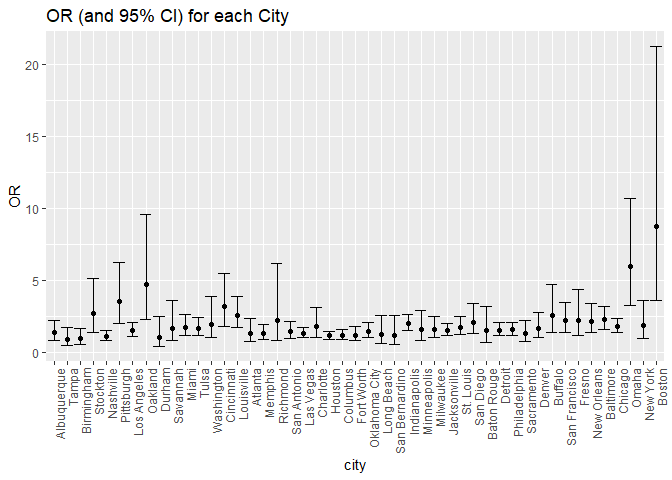
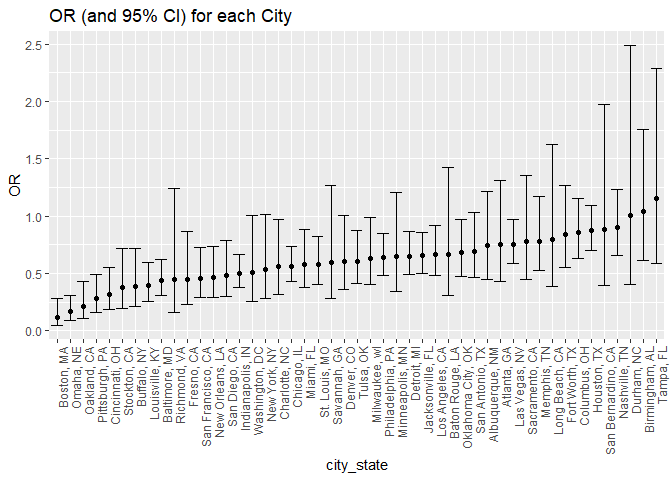
final

diff --git a/p8105_hw6_mp3653.md b/p8105_hw6_mp3653.md
@@ -20,6 +20,10 @@ library(tidyverse)
     ## x dplyr::filter() masks stats::filter()
     ## x dplyr::lag()    masks stats::lag()
 
+``` r
+library(modelr)
+```
+
 Problem 1
 =========
 
@@ -30,10 +34,10 @@ homicide_data = read_csv('https://raw.githubusercontent.com/washingtonpost/data-
   janitor::clean_names() %>% 
   unite(city_state, c(city, state), sep = ", ", remove = FALSE) %>% 
   filter(!(city_state %in% c('Dallas, TX', 'Phoenix, AZ', 'Kansas City, MO', 'Tulsa, AL'))) %>% 
-  mutate(outcome = as.factor(ifelse(disposition == 'Closed by arrest', 'solved', 'unsolved')),
+  mutate(outcome = as.factor(ifelse(disposition == 'Closed by arrest', 1, 0)),
          victim_age = as.numeric(victim_age),
          victim_race = ifelse(victim_race == 'White', 'white', 'non-white'),
-         victim_race = fct_relevel(victim_race, 'white'),
+         victim_race = fct_relevel(victim_race, 'white', 'non-white'),
          victim_sex = as.factor(victim_sex))
 ```
 
@@ -56,9 +60,9 @@ homicide_data = read_csv('https://raw.githubusercontent.com/washingtonpost/data-
     ## Warning in evalq(as.numeric(victim_age), <environment>): NAs introduced by
     ## coercion
 
-### Logistic Regression
+### Regression
 
-Baltimore
+Logistic Regression and OR (and 95% CI) for Baltimore, MD
 
 ``` r
 baltimore = homicide_data %>% 
@@ -66,6 +70,7 @@ baltimore = homicide_data %>%
 
 baltimore_lr = glm(outcome ~ victim_age + victim_sex + victim_race, data = baltimore, family = binomial())
 
+#OR and 95% CI
 baltimore_lr %>% broom::tidy() %>% 
   janitor::clean_names() %>% 
   mutate(OR = exp(estimate),
@@ -78,13 +83,13 @@ baltimore_lr %>% broom::tidy() %>%
 
 |        OR|  lower\_bound|  upper\_bound|
 |---------:|-------------:|-------------:|
-|  2.269591|      1.611803|      3.195828|
+|  0.440608|     0.3129079|     0.6204234|
 
-All cities
+Logistic Regression and OR (and 95% CI) for all cities
 
 ``` r
 city_lr = homicide_data %>% 
-  group_by(city) %>% 
+  group_by(city_state) %>% 
   nest() %>% 
   mutate(models = map(data, ~ glm(outcome ~ victim_age + victim_sex + victim_race, data = .x, family = binomial())),
          models = map(models, broom::tidy)) %>% 
@@ -95,70 +100,70 @@ city_lr = homicide_data %>%
          lower_bound = exp(estimate - (1.96 * std_error)),
          upper_bound = exp(estimate + (1.96 * std_error)))
 
+#OR and 95% CI
 city_lr %>% 
   filter(term == 'victim_racenon-white') %>% 
-  select(city, OR, lower_bound, upper_bound) %>% 
+  select(city_state, OR, lower_bound, upper_bound) %>% 
   knitr::kable()
 ```
 
-| city           |         OR|  lower\_bound|  upper\_bound|
-|:---------------|----------:|-------------:|-------------:|
-| Albuquerque    |  1.3486725|     0.8208534|      2.215886|
-| Atlanta        |  1.3283705|     0.7614223|      2.317463|
-| Baltimore      |  2.2695913|     1.6118026|      3.195828|
-| Baton Rouge    |  1.4978381|     0.7016468|      3.197505|
-| Birmingham     |  0.9622062|     0.5694368|      1.625889|
-| Boston         |  8.7295729|     3.5933240|     21.207507|
-| Buffalo        |  2.5648401|     1.3995730|      4.700294|
-| Charlotte      |  1.7937165|     1.0321202|      3.117291|
-| Chicago        |  1.7790921|     1.3646059|      2.319475|
-| Cincinnati     |  3.1411372|     1.8154766|      5.434795|
-| Columbus       |  1.1699973|     0.8678604|      1.577320|
-| Denver         |  1.6614415|     0.9909206|      2.785680|
-| Detroit        |  1.5355189|     1.1500925|      2.050112|
-| Durham         |  0.9971904|     0.4018409|      2.474583|
-| Fort Worth     |  1.1935516|     0.7899324|      1.803402|
-| Fresno         |  2.2331323|     1.1500046|      4.336400|
-| Houston        |  1.1459943|     0.9175847|      1.431261|
-| Indianapolis   |  1.9819404|     1.4997206|      2.619213|
-| Jacksonville   |  1.5193525|     1.1595709|      1.990764|
-| Las Vegas      |  1.3237742|     1.0276480|      1.705232|
-| Long Beach     |  1.2595996|     0.6150494|      2.579616|
-| Los Angeles    |  1.5018570|     1.0890949|      2.071054|
-| Louisville     |  2.5515829|     1.6861150|      3.861288|
-| Memphis        |  1.2782507|     0.8558811|      1.909056|
-| Miami          |  1.7353971|     1.1361086|      2.650806|
-| Milwaukee      |  1.5813046|     1.0086895|      2.478983|
-| Minneapolis    |  1.5486999|     0.8268367|      2.900780|
-| Nashville      |  1.1128530|     0.8091645|      1.530519|
-| New Orleans    |  2.1462281|     1.3575696|      3.393045|
-| New York       |  1.8816121|     0.9890540|      3.579647|
-| Oakland        |  4.6953226|     2.3007328|      9.582188|
-| Oklahoma City  |  1.4678827|     1.0299891|      2.091944|
-| Omaha          |  5.9198635|     3.2771498|     10.693678|
-| Philadelphia   |  1.5532139|     1.1730629|      2.056559|
-| Pittsburgh     |  3.5516327|     2.0276622|      6.221004|
-| Richmond       |  2.2350635|     0.8076558|      6.185195|
-| San Antonio    |  1.4506428|     0.9707853|      2.167693|
-| Sacramento     |  1.2808420|     0.7360034|      2.229006|
-| Savannah       |  1.6767144|     0.7872725|      3.571027|
-| San Bernardino |  1.1361755|     0.5071037|      2.545623|
-| San Diego      |  2.0688687|     1.2739115|      3.359902|
-| San Francisco  |  2.1820665|     1.3829544|      3.442929|
-| St. Louis      |  1.7329588|     1.2190769|      2.463459|
-| Stockton       |  2.6615561|     1.3914473|      5.091016|
-| Tampa          |  0.8629422|     0.4371502|      1.703463|
-| Tulsa          |  1.6598372|     1.1380960|      2.420762|
-| Washington     |  1.9604709|     0.9904717|      3.880420|
+| city\_state        |         OR|  lower\_bound|  upper\_bound|
+|:-------------------|----------:|-------------:|-------------:|
+| Albuquerque, NM    |  0.7414698|     0.4512868|     1.2182443|
+| Atlanta, GA        |  0.7528020|     0.4315063|     1.3133316|
+| Baltimore, MD      |  0.4406080|     0.3129079|     0.6204234|
+| Baton Rouge, LA    |  0.6676289|     0.3127439|     1.4252185|
+| Birmingham, AL     |  1.0392783|     0.6150483|     1.7561211|
+| Boston, MA         |  0.1145531|     0.0471531|     0.2782939|
+| Buffalo, NY        |  0.3898879|     0.2127526|     0.7145036|
+| Charlotte, NC      |  0.5575017|     0.3207914|     0.9688794|
+| Chicago, IL        |  0.5620844|     0.4311321|     0.7328123|
+| Cincinnati, OH     |  0.3183560|     0.1839996|     0.5508195|
+| Columbus, OH       |  0.8547029|     0.6339868|     1.1522590|
+| Denver, CO         |  0.6018870|     0.3589787|     1.0091626|
+| Detroit, MI        |  0.6512456|     0.4877782|     0.8694953|
+| Durham, NC         |  1.0028175|     0.4041085|     2.4885469|
+| Fort Worth, TX     |  0.8378356|     0.5545077|     1.2659311|
+| Fresno, CA         |  0.4478015|     0.2306060|     0.8695617|
+| Houston, TX        |  0.8726047|     0.6986847|     1.0898176|
+| Indianapolis, IN   |  0.5045560|     0.3817941|     0.6667909|
+| Jacksonville, FL   |  0.6581751|     0.5023197|     0.8623880|
+| Las Vegas, NV      |  0.7554159|     0.5864306|     0.9730958|
+| Long Beach, CA     |  0.7939031|     0.3876546|     1.6258857|
+| Los Angeles, CA    |  0.6658424|     0.4828459|     0.9181936|
+| Louisville, KY     |  0.3919136|     0.2589809|     0.5930794|
+| Memphis, TN        |  0.7823191|     0.5238191|     1.1683866|
+| Miami, FL          |  0.5762370|     0.3772438|     0.8801975|
+| Milwaukee, wI      |  0.6323892|     0.4033912|     0.9913854|
+| Minneapolis, MN    |  0.6457029|     0.3447349|     1.2094287|
+| Nashville, TN      |  0.8985913|     0.6533730|     1.2358427|
+| New Orleans, LA    |  0.4659337|     0.2947205|     0.7366105|
+| New York, NY       |  0.5314592|     0.2793572|     1.0110671|
+| Oakland, CA        |  0.2129779|     0.1043603|     0.4346441|
+| Oklahoma City, OK  |  0.6812533|     0.4780242|     0.9708841|
+| Omaha, NE          |  0.1689228|     0.0935132|     0.3051432|
+| Philadelphia, PA   |  0.6438263|     0.4862491|     0.8524692|
+| Pittsburgh, PA     |  0.2815606|     0.1607457|     0.4931788|
+| Richmond, VA       |  0.4474146|     0.1616764|     1.2381512|
+| San Antonio, TX    |  0.6893496|     0.4613199|     1.0300939|
+| Sacramento, CA     |  0.7807364|     0.4486304|     1.3586894|
+| Savannah, GA       |  0.5964045|     0.2800315|     1.2702083|
+| San Bernardino, CA |  0.8801457|     0.3928312|     1.9719832|
+| San Diego, CA      |  0.4833560|     0.2976277|     0.7849839|
+| San Francisco, CA  |  0.4582812|     0.2904504|     0.7230896|
+| St. Louis, MO      |  0.5770478|     0.4059333|     0.8202928|
+| Stockton, CA       |  0.3757201|     0.1964244|     0.7186762|
+| Tampa, FL          |  1.1588262|     0.5870394|     2.2875435|
+| Tulsa, OK          |  0.6024687|     0.4130931|     0.8786605|
+| Washington, DC     |  0.5100815|     0.2577041|     1.0096200|
 
 Plot of estimated ORs and CIs for all cities
 
 ``` r
 city_lr %>% 
-  mutate(city = as.factor(city),
-         city = fct_reorder(city, OR)) %>% 
   filter(term == 'victim_racenon-white') %>%
-  ggplot(aes(x = city, y = OR)) +
+  mutate(city_state = fct_reorder(city_state, OR)) %>% 
+  ggplot(aes(x = city_state, y = OR)) +
   geom_point() +
   geom_errorbar(aes(ymin = lower_bound, ymax = upper_bound)) +
   theme(axis.text.x = element_text(angle = 90, hjust = 1)) +
@@ -169,7 +174,94 @@ city_lr %>%
 
 ![](p8105_hw6_mp3653_files/figure-markdown_github/unnamed-chunk-5-1.png)
 
-Commenttttttttt
+All significant OR estimates indicate that the odds of a homicide being solved when the victim is non-white is lower than the odds of a homicide being solved when the victim is white. There are no significant OR values greater than 1. The city with the smallest OR and therefore the greatest disparity in solved cases is Boston, MA.
 
 Problem 2
 =========
+
+### Import and Clean Data
+
+``` r
+birthwt = read.csv('./data/birthweight.csv') %>% 
+  janitor::clean_names() %>% 
+  mutate(babysex = as.factor(babysex),
+         frace = as.factor(frace),
+         malform = as.factor(malform),
+         mrace = as.factor(mrace))
+
+#Check to see if there is missing data
+filter_all(birthwt, any_vars(is.na(.)))
+```
+
+    ##  [1] babysex  bhead    blength  bwt      delwt    fincome  frace   
+    ##  [8] gaweeks  malform  menarche mheight  momage   mrace    parity  
+    ## [15] pnumlbw  pnumsga  ppbmi    ppwt     smoken   wtgain  
+    ## <0 rows> (or 0-length row.names)
+
+### Model building
+
+I hypothesis that the model for birthweight should include the variables for baby length(blength), family income (fincome), gestational age in weeks (gaweeks), and mother's pre-pregnancy BMI (ppbmi).
+
+These variables were chosen for the following reasons:
+
+-   blength - smaller babies will generally weigh less than larger babies
+-   fincome - a proxy for SES
+-   gaweeks - infants born early will be less developed and therefore should weight less
+-   ppbmi - evidence shows that maternal prepregnancy BMI is related to infant birthweight (Heude B, Thiébaugeorges O, Goua V, et al. Pre-pregnancy body mass index and weight gain during pregnancy: relations with gestational diabetes and hypertension, and birth outcomes. Matern Child Health J. 2012;16(2):355-63.)
+
+Hypothesized model and plot of residuals vs. predicted values
+
+``` r
+fit = lm(bwt ~ blength + fincome + gaweeks + ppbmi, data = birthwt)
+
+birthwt %>% 
+  modelr::add_predictions(fit) %>% 
+  modelr::add_residuals(fit) %>% 
+  ggplot(aes(x = pred, y = resid)) +
+  geom_point() +
+  labs(
+    title = 'Residuals vs Predicted Values'
+  )
+```
+
+![](p8105_hw6_mp3653_files/figure-markdown_github/unnamed-chunk-7-1.png)
+
+Creation of 2 additional models
+
+``` r
+fit2 = lm(bwt ~ blength + gaweeks, data = birthwt)
+fit3 = lm(bwt ~ bhead + blength + babysex + bhead*blength + bhead*babysex + blength*babysex + bhead*blength*babysex, data = birthwt)
+```
+
+Comparison of models
+
+``` r
+set.seed(1)
+
+cv_df = crossv_mc(birthwt, 100) %>% 
+  mutate(train = map(train, as_tibble),
+         test = map(test, as_tibble))
+
+cv_df = cv_df %>% 
+  mutate(fit = map(train, ~fit),
+         fit2 = map(train, ~fit2),
+         fit3 = map(train, ~fit3)) %>% 
+  mutate(rmse_fit    = map2_dbl(fit, test, ~rmse(model = .x, data = .y)),
+         rmse_fit2 = map2_dbl(fit2, test, ~rmse(model = .x, data = .y)),
+         rmse_fit3 = map2_dbl(fit3, test, ~rmse(model = .x, data = .y)))
+
+cv_df %>% 
+  select(starts_with("rmse")) %>% 
+  gather(key = model, value = rmse) %>% 
+  mutate(model = str_replace(model, "rmse_", ""),
+         model = fct_inorder(model)) %>% 
+  ggplot(aes(x = model, y = rmse)) + 
+  geom_violin() +
+  labs(
+    title = 'Comparison of 3 Models'
+  )
+```
+
+![](p8105_hw6_mp3653_files/figure-markdown_github/unnamed-chunk-9-1.png)
+
+The best model is fit3, which is the linear regression of birthweight from the variables bhead, blength, and babysex, as well as all interaction terms. The above plot shows fit3 is the best model because it has the lowest range of rmse values, which indicates that the model explains more of the variance than the other two models.
